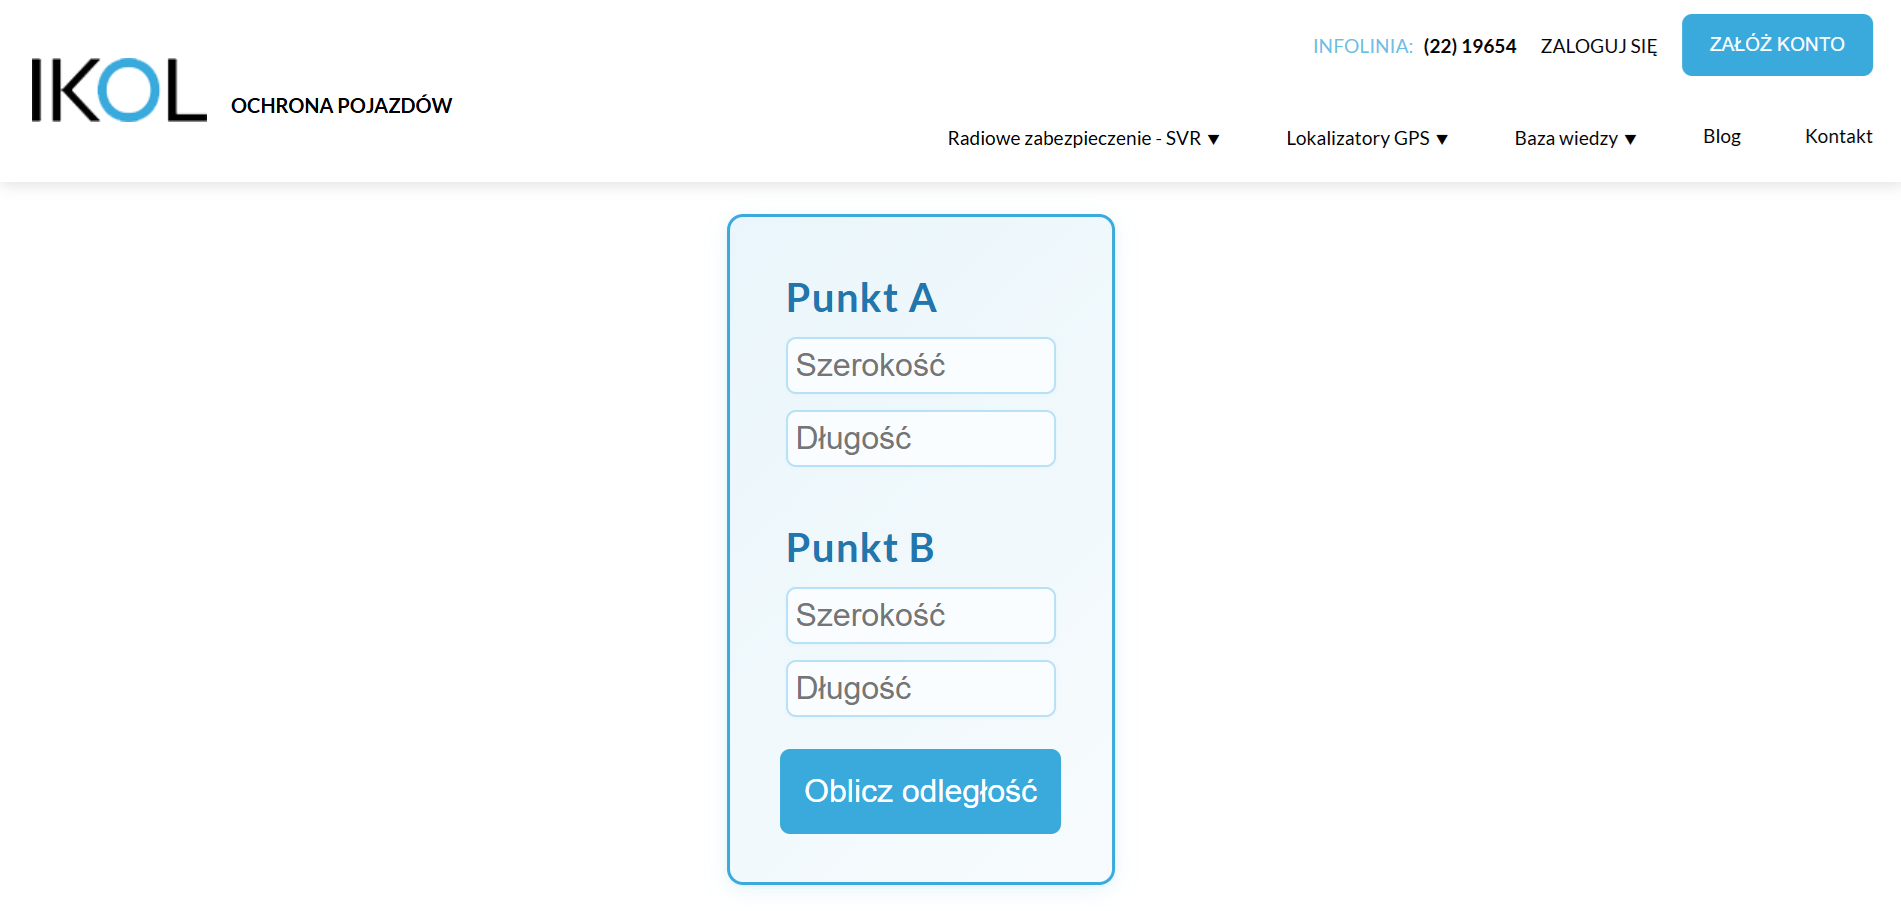
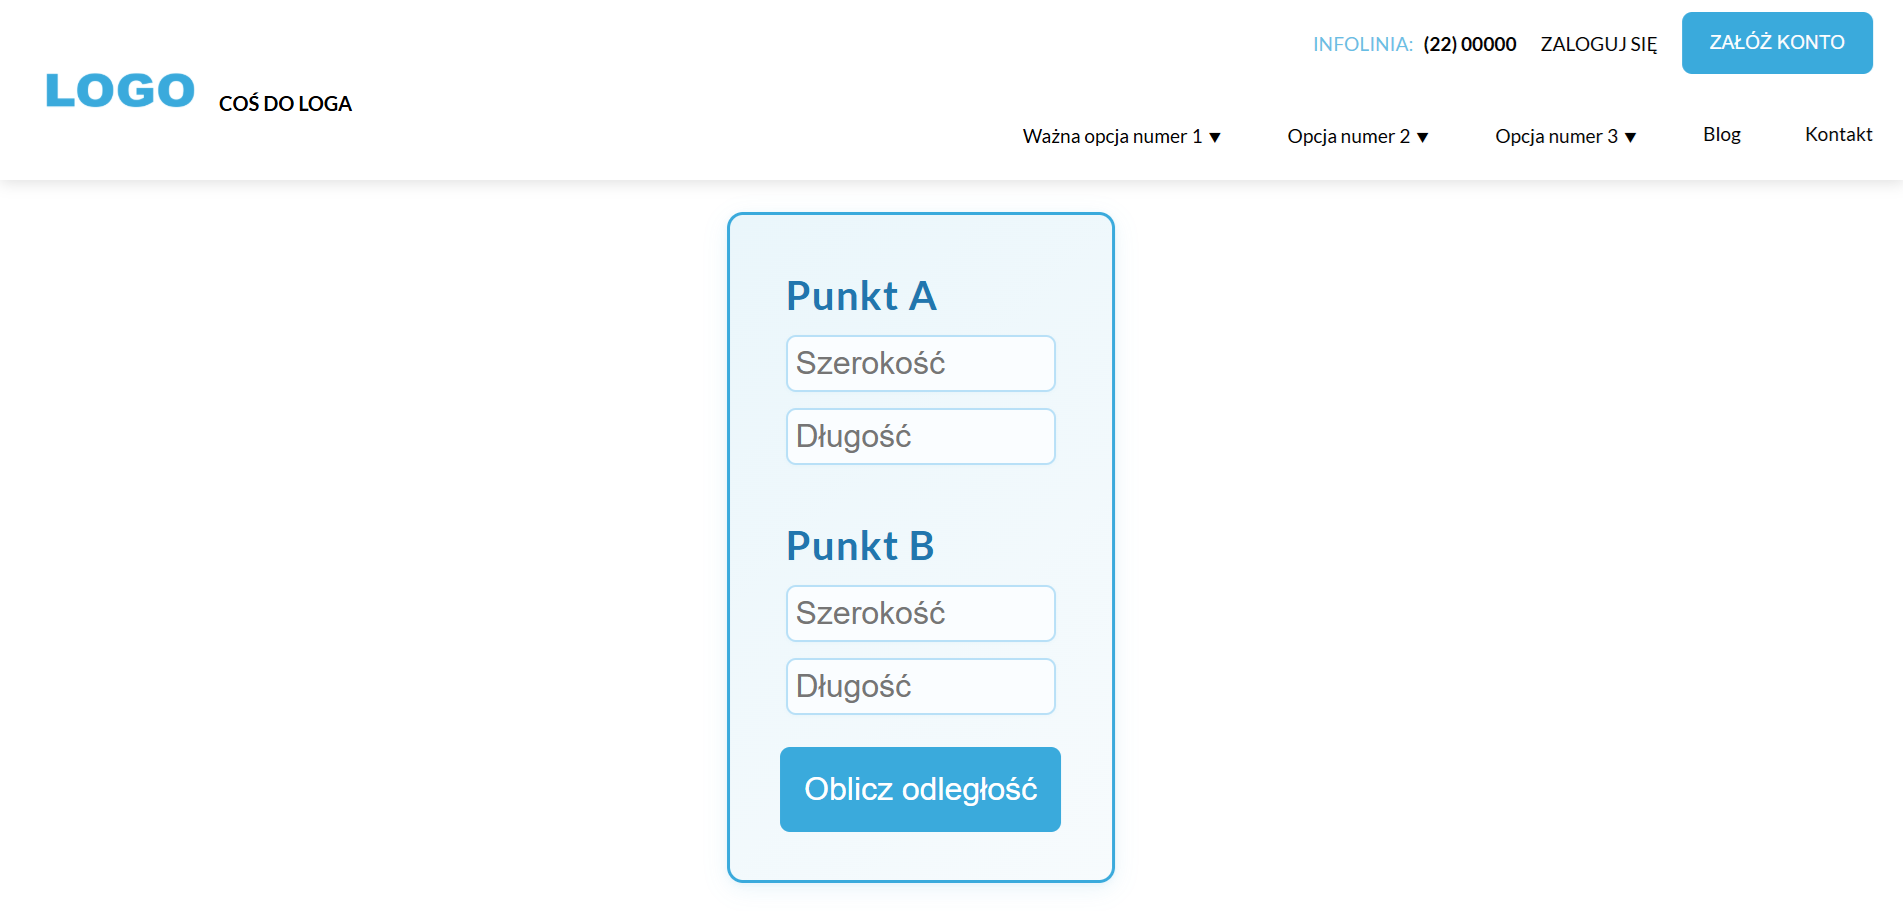
Poprawki

diff --git a/src/components/Navbar.vue b/src/components/Navbar.vue
@@ -1,16 +1,16 @@
 <template>
   <nav>
     <div class="logo">
-      <a class="navbar-brand" href="https://ikol.pl/">
-        <img src="/logo-ikol1.png" alt="LOGO" />
-        <p>OCHRONA POJAZDÓW</p>
+      <a class="navbar-brand" href="#">
+        <img src="/logo.png" alt="LOGO" />
+        <p>COŚ DO LOGA</p>
       </a>
     </div>
     <div class="navbar">
       <div class="navup">
         <div>
           <p>Infolinia:</p>
-          <a href="#">(22) 19654 </a>
+          <a href="#">(22) 00000 </a>
         </div>
         <a href="#" class="signin">ZALOGUJ SIĘ</a>
         <button class="signup">ZAŁÓŻ KONTO</button>
@@ -18,45 +18,45 @@
       <div class="navdown">
         <ul class="navbar-links">
           <li class="dropdown">
-            <a href="#">Radiowe zabezpieczenie - SVR</a>
+            <a href="#">Ważna opcja numer 1</a>
             <ul class="dropdown-menu dropdown-menu-svr">
-              <li><a href="#">Opis systemu radiowego</a></li>
-              <li><a href="#">Oferta</a></li>
-              <li><a href="#">IKOL SVR Dashcam - Nowość!</a></li>
+              <li><a href="#">Podopcja numer 1</a></li>
+              <li><a href="#">Podopcja numer 2</a></li>
+              <li><a href="#">Podopcja numer 3</a></li>
             </ul>
           </li>
           <li class="dropdown">
-            <a href="#">Lokalizatory GPS</a>
+            <a href="#">Opcja numer 2</a>
             <ul class="dropdown-menu dropdown-menu-gps">
-              <li><a href="#">GPS do samochodu</a></li>
-              <li><a href="#">GPS dla flot</a></li>
-              <li><a href="#">Lokalizatory przenośne</a></li>
-              <li><a href="#">e-TOLL</a></li>
-              <li><a href="#">Lokalizacja telefonu</a></li>
-              <li><a href="#">Oferta</a></li>
+              <li><a href="#">Podopcja numer 1</a></li>
+              <li><a href="#">Podopcja numer 2</a></li>
+              <li><a href="#">Podopcja numer 3</a></li>
+              <li><a href="#">Podopcja numer 4</a></li>
+              <li><a href="#">Podopcja numer 5</a></li>
+              <li><a href="#">Podopcja numer 6</a></li>
             </ul>
           </li>
           <li class="dropdown">
-            <a href="#">Baza wiedzy</a>
+            <a href="#">Opcja numer 3</a>
             <ul class="dropdown-menu dropdown-menu-knowledge">
-              <li><a href="#">Niezagłuszalny system IKOL SVR</a></li>
-              <li><a href="#">Moduły IKOL dla pojazdów</a></li>
-              <li><a href="#">Lokalizatory IKOL przenośne</a></li>
-              <li><a href="#">Nasze odzyskania</a></li>
+              <li><a href="#">Podopcja numer 1</a></li>
+              <li><a href="#">Podopcja numer 2</a></li>
+              <li><a href="#">Podopcja numer 3</a></li>
+              <li><a href="#">Podopcja numer 4</a></li>
               <li class="dropdown-submenu">
-                <a href="#">Nasze aplikacje</a>
+                <a href="#">Podopcja numer 5</a>
                 <ul class="submenu">
-                  <li><a href="#">Aplikacja IKOL Tracer</a></li>
-                  <li><a href="#">Aplikacja IKOL X</a></li>
+                  <li><a href="#">Podpodopcja numer 1</a></li>
+                  <li><a href="#">Podpodopcja numer 2</a></li>
                 </ul>
               </li>
-              <li><a href="#">Usługi dodatkowe</a></li>
-              <li><a href="#">Nasze rozwiązania</a></li>
-              <li><a href="#">Lista pojazdów CAN (marki A do L)</a></li>
-              <li><a href="#">Lista pojazdów CAN (marki M do Z)</a></li>
-              <li><a href="#">Filmy</a></li>
-              <li><a href="#">FAQ</a></li>
-              <li><a href="#">API IKOL</a></li>
+              <li><a href="#">Podopcja numer 1</a></li>
+              <li><a href="#">Podopcja numer 2</a></li>
+              <li><a href="#">Podopcja numer 3</a></li>
+              <li><a href="#">Podopcja numer 4</a></li>
+              <li><a href="#">Podopcja numer 5</a></li>
+              <li><a href="#">Podopcja numer 6</a></li>
+              <li><a href="#">Podopcja numer 7</a></li>
             </ul>
           </li>
           <li><a href="#">Blog</a></li>

diff --git a/src/components/MapDisplay.vue b/src/components/MapDisplay.vue
@@ -91,7 +91,10 @@ watch(
 
       // Dodaj obsługę kliknięcia na nowej linii
       line.on('click', function (e) {
-        L.popup().setLatLng(e.latlng).setContent(getDistanceText()).openOn(map);
+        L.popup()
+          .setLatLng(e.latlng)
+          .setContent(`<div style="font-size: 1.1rem;"><strong>${getDistanceText()}</strong></div>`)
+          .openOn(map);
       });
 
       const midPoint = line.getCenter();

diff --git a/index.html b/index.html
@@ -4,7 +4,7 @@
     <meta charset="UTF-8" />
     <link rel="icon" type="image/svg+xml" href="/vite.svg" />
     <meta name="viewport" content="width=device-width, initial-scale=1.0" />
-    <title>Kalkulator odległości</title>
+    <title>Distance Calculator</title>
   </head>
   <body>
     <div id="app"></div>

diff --git a/src/Navbar.css b/src/Navbar.css
@@ -57,7 +57,7 @@ nav ul {
 }
 
 .navbar-brand {
-  gap: 24px;
+  gap: 12px;
   height: 100%;
   display: flex;
   align-items: center;
